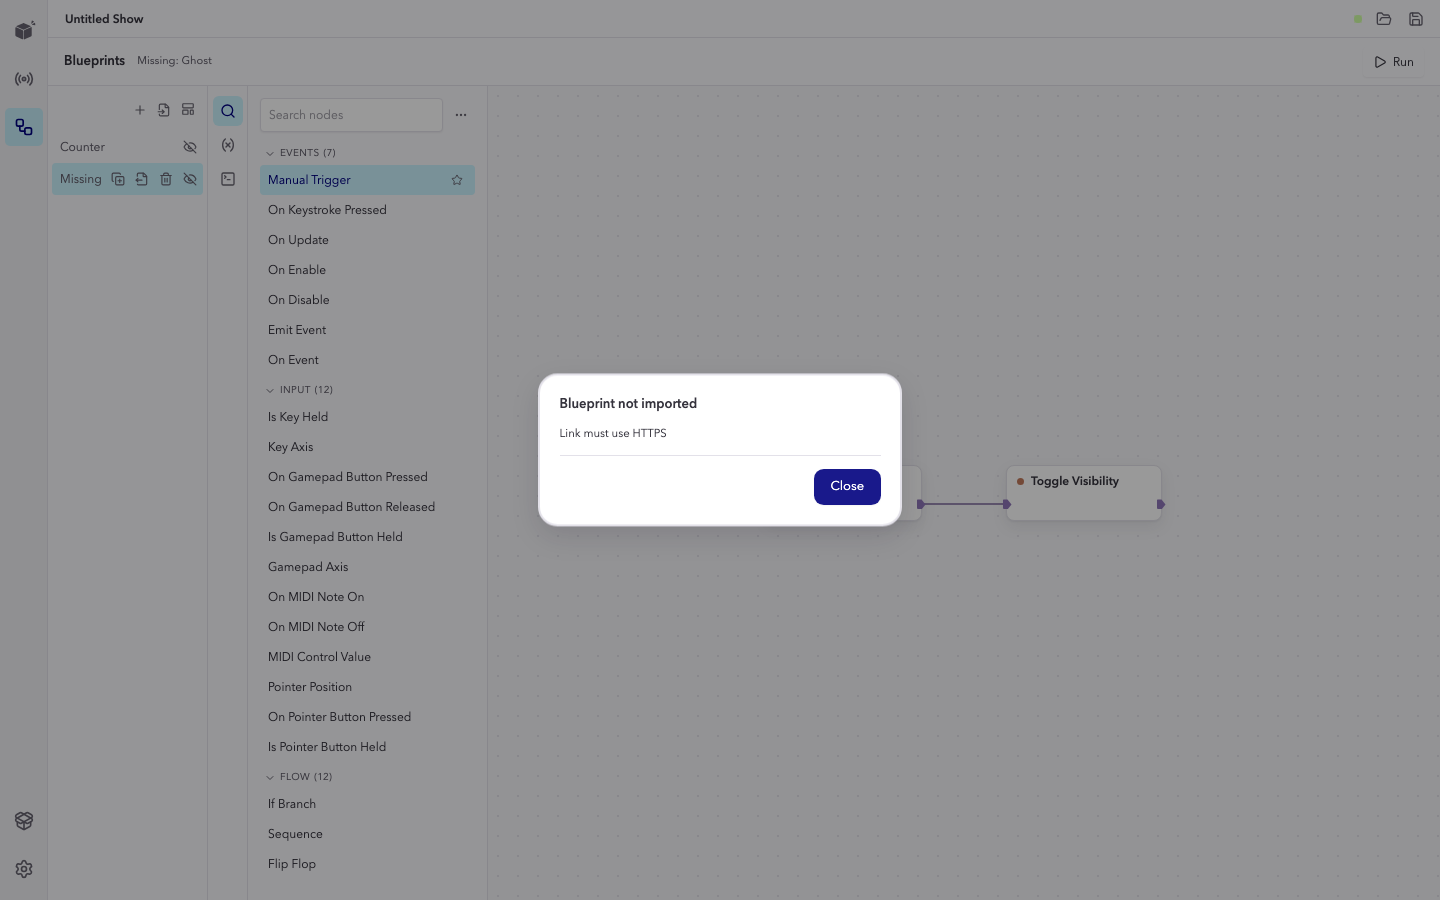
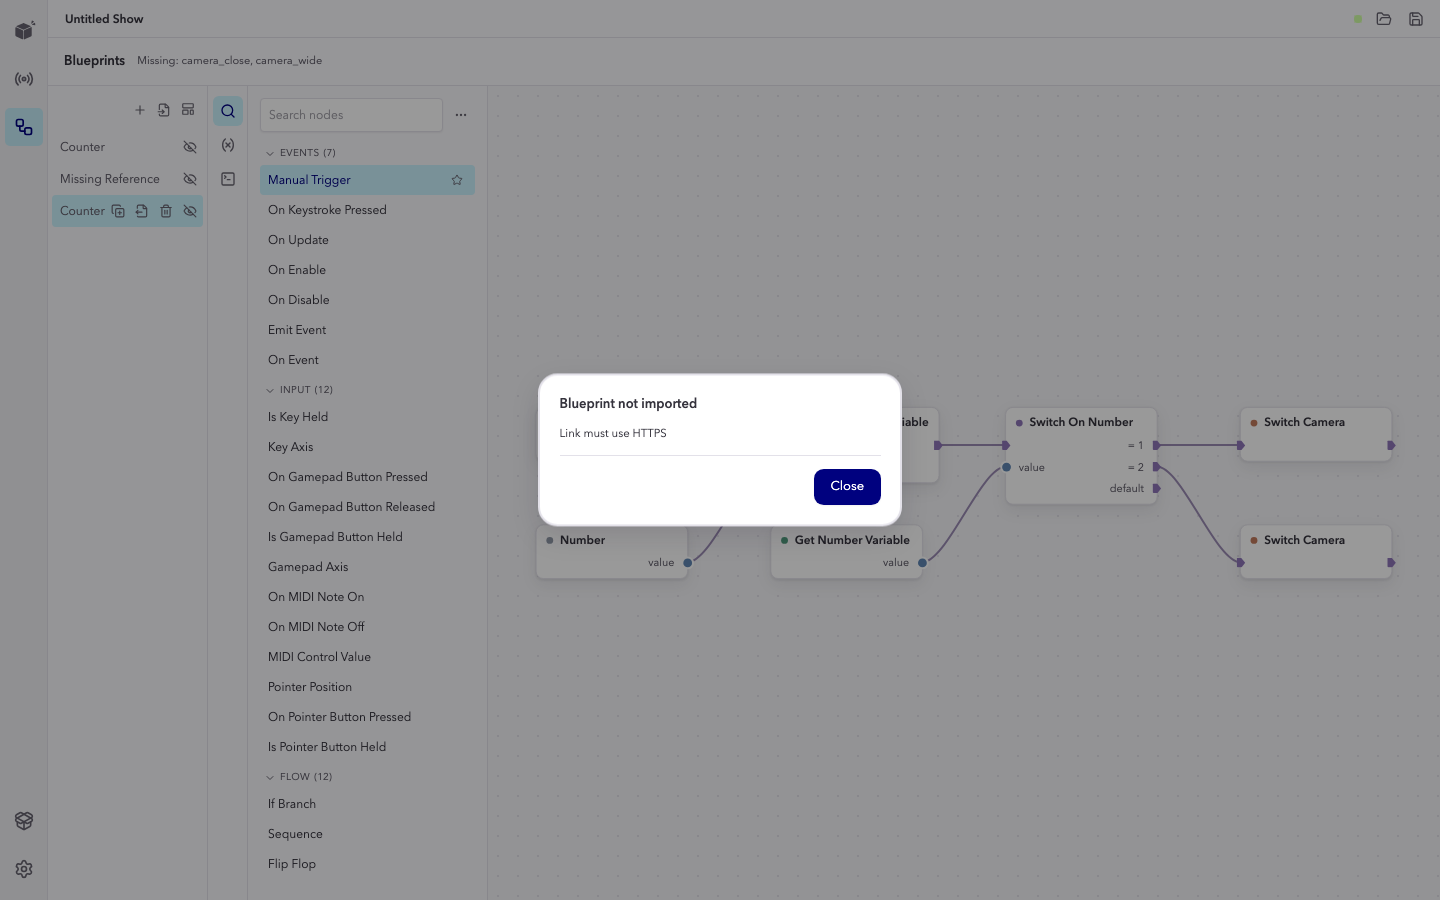
Take the linked Blueprint result from its own batch and keep the dialog open while it adds (B39)

diff --git a/apps/desktop/src/EditorApp.svelte b/apps/desktop/src/EditorApp.svelte
@@ -14,8 +14,8 @@
  import {createLiveTransform} from './editor/live-transform';
  import {createLiveEdit,type LiveEdit} from './editor/live-edit';
  import { createEditorPoll } from './editor-poll';
- import { createBlueprintSync, issueText, type BlueprintSync } from './blueprints/blueprint-sync';
- import { linkSummary, type LinkDownload, type LinkImportState } from './blueprints/link-import';
+ import { createBlueprintSync, type BlueprintSync } from './blueprints/blueprint-sync';
+ import { addLinkedGraph, linkSummary, type LinkDownload, type LinkImportState } from './blueprints/link-import';
 import { createEditorMemory } from './blueprints/editor-memory';
  import { createDebugFeed, planToasts, type DebugFeed } from './blueprints/debug-feed';
  import { compileBlueprint } from '@opensekai/session';
@@ -84,7 +84,7 @@ import { createEditorMemory } from './blueprints/editor-memory';
  // The avatar whose tracking guide replaces the Inspector.
  let guideFor=$state<string|null>(null);
  // A Blueprint from an opensekai:// link (B39 R9-R14). `app-link` only wakes the window; the window pulls the link when it is ready.
- let link=$state.raw<LinkImportState>({kind:'idle'}),linkWanted=$state(true),linkTaking=$state(false),linkAdding=false,linkToken=0;
+ let link=$state.raw<LinkImportState>({kind:'idle'}),linkWanted=$state(true),linkTaking=$state(false),linkAdding=$state(false),linkToken=0;
  let blueprintsLoaded=$state(false),graphCount=$state(0),linkArrival=$state.raw<{graphId:string;missing:string[]}|null>(null);
  const linkReady=$derived(canEdit&&available&&blueprintsLoaded&&!showBusy&&guideFor===null&&link.kind==='idle'&&!linkTaking);
  const linkContent=$derived(link.kind==='confirm'&&view.scene?linkSummary(link.text,link.host,view.scene,graphCount,()=>crypto.randomUUID()):null);
@@ -97,15 +97,16 @@ import { createEditorMemory } from './blueprints/editor-memory';
   catch(cause){if(token===linkToken)link={kind:'failed',message:showFailure(cause)};}
   finally{clearTimeout(timer);linkTaking=false;}
  }
- function closeLink(){if(link.kind==='idle')return;linkToken++;link={kind:'idle'};void invoke('finish_blueprint_link').catch(()=>{});}
+ // While the session answers an Import, the dialog cannot close (R11).
+ function closeLink(){if(link.kind==='idle'||linkAdding)return;linkToken++;link={kind:'idle'};void invoke('finish_blueprint_link').catch(()=>{});}
  async function importLink(){
-  if(!sync||linkAdding||!linkContent?.ok)return;
-  const {graph,missing}=linkContent.data;const applied=sync.edit([{kind:'createGraph',graph}]);
-  if(!applied.ok){link={kind:'failed',message:applied.error.message};return;}
+  if(!sync||linkAdding||!available||!linkContent?.ok)return;
+  const {graph,missing}=linkContent.data,token=linkToken;
   linkAdding=true;
-  try{await sync.idle();}finally{linkAdding=false;}
-  const issue=sync.issue();
-  if(issue){link={kind:'failed',message:issueText(issue)};return;}
+  let reply;try{reply=await addLinkedGraph(sync,graph);}finally{linkAdding=false;}
+  // The result of its own batch (R13); a newer link or a closed dialog keeps its state.
+  if(token!==linkToken)return;
+  if(!reply.ok){link={kind:'failed',message:reply.error.message};return;}
   closeLink();panel='blueprints';linkArrival={graphId:graph.id,missing};
  }
  let liveTransform:ReturnType<typeof createLiveTransform>|undefined,transformError=$state<string|null>(null),livePending=$state(false);
@@ -204,7 +205,7 @@ import { createEditorMemory } from './blueprints/editor-memory';
  }
  // Open Show, a template, and a recent show load through the same path (start screen R4, R5, R7).
  async function openShowFrom(load:()=>Promise<unknown|null>):Promise<boolean>{
-  if(!model||showBusy||view.pending||guideFor!==null||link.kind!=='idle')return false;
+  if(!model||showBusy||view.pending||guideFor!==null||link.kind!=='idle'||linkTaking)return false;
   showBusy=true;showError=null;
   try{
    const raw=await load();if(raw===null)return false;
@@ -296,5 +297,5 @@ import { createEditorMemory } from './blueprints/editor-memory';
   </div>
  </div>
 </main>
-{#if link.kind!=='idle'}<BlueprintLinkDialog state={link} summary={linkContent} onimport={()=>{void importLink();}} onclose={closeLink}/>{/if}
+{#if link.kind!=='idle'}<BlueprintLinkDialog state={link} summary={linkContent} busy={linkAdding} canImport={available} onimport={()=>{void importLink();}} onclose={closeLink}/>{/if}
 <ToastRegion/>

diff --git a/apps/desktop/src/blueprints/blueprint-sync.ts b/apps/desktop/src/blueprints/blueprint-sync.ts
@@ -9,9 +9,11 @@ export const issueText = (issue: SyncIssue): string =>
 export interface BlueprintSync {
  view(): BlueprintGraph[]; revision(): number; errors(): BlueprintStatus[]; issue(): SyncIssue;
  load(): Promise<void>; pull(): Promise<void>; reset(): Promise<void>; poll(): Promise<void>; edit(ops: BlueprintOp[]): Reply<BlueprintGraph[]>; idle(): Promise<void>;
+ // One batch with its own result (B39 R13): the confirmed revision, the rejection, or UNAVAILABLE after the unconfirmed batch is removed.
+ commit(ops: BlueprintOp[]): Promise<Reply<{ revision: number }>>;
  subscribe(fn: (next: BlueprintGraph[], previous: BlueprintGraph[]) => void): () => void;
 }
-interface Pending { batchId: Id; ops: BlueprintOp[]; sent: boolean; revision?: number }
+interface Pending { batchId: Id; ops: BlueprintOp[]; sent: boolean; revision?: number; error?: { code: ErrorCode; message: string }; unreached?: boolean }
 const isMove = (ops: BlueprintOp[]) => ops.length === 1 && ops[0]!.kind === 'moveNode';
 const sameMove = (a: BlueprintOp[], b: BlueprintOp[]) => isMove(a) && isMove(b) && a[0]!.kind === 'moveNode' && b[0]!.kind === 'moveNode' && a[0].graphId === b[0].graphId && a[0].nodeId === b[0].nodeId;
 
@@ -27,7 +29,7 @@ export function createBlueprintSync(api: Pick<AppApi, 'blueprintEdit' | 'bluepri
   pending = pending.filter(batch => {
    const r = applyBlueprintOps(next, batch.ops);
    if (r.ok) next = r.data;
-   else if (!batch.sent) issue = { kind: 'rejected', code: 'CONFLICT', message: r.error.message };
+   else if (!batch.sent) { issue = { kind: 'rejected', code: 'CONFLICT', message: r.error.message }; batch.error = { code: 'CONFLICT', message: r.error.message }; }
    return r.ok || batch.sent;
   });
   show(next);
@@ -77,13 +79,14 @@ export function createBlueprintSync(api: Pick<AppApi, 'blueprintEdit' | 'bluepri
     const reply = await api.blueprintEdit({ clientId, batchId: batch.batchId, ops: batch.ops });
     if (reply.ok) { batch.revision = reply.data.revision; if (issue?.kind === 'unavailable') issue = null; continue; }
     pending = pending.filter(p => p !== batch);
+    batch.error = { code: reply.error.code, message: reply.error.message };
     issue = { kind: 'rejected', code: reply.error.code, message: reply.error.message };
     await load();
    }
    return true;
   } catch {
    issue = { kind: 'unavailable' };
-   for (const p of pending) if (p.revision === undefined) p.sent = false;
+   for (const p of pending) if (p.revision === undefined) { p.sent = false; p.unreached = true; }
    return false;
   }
  };
@@ -116,6 +119,26 @@ export function createBlueprintSync(api: Pick<AppApi, 'blueprintEdit' | 'bluepri
    return result;
   },
   async idle() { while (sending || pulling || loading) await (sending ?? pulling ?? loading); },
+  async commit(ops) {
+   if (ops.length === 0 || ops.length > 64) return { ok: false, error: { code: 'INVALID_INPUT', message: 'One batch has 1 to 64 operations', ids: [] } };
+   const result = applyBlueprintOps(view, ops);
+   if (!result.ok) return result;
+   const batch: Pending = { batchId: crypto.randomUUID(), ops, sent: false };
+   pending.push(batch);
+   if (issue?.kind === 'rejected') issue = null;
+   show(result.data);
+   for (;;) {
+    await flush();
+    if (batch.revision !== undefined) return { ok: true, data: { revision: batch.revision } };
+    if (batch.error) return { ok: false, error: { ...batch.error, ids: [] } };
+    // Not confirmed: remove the batch, so a later poll cannot send it, and show the view without it.
+    if (batch.unreached || !pending.includes(batch)) {
+     pending = pending.filter(p => p !== batch);
+     rebuild();
+     return { ok: false, error: { code: 'UNAVAILABLE', message: 'Session unavailable', ids: [] } };
+    }
+   }
+  },
   subscribe(fn) { listeners.add(fn); return () => { listeners.delete(fn); }; },
  };
 }

diff --git a/apps/desktop/test/link-import.integration.test.ts b/apps/desktop/test/link-import.integration.test.ts
@@ -5,7 +5,7 @@ import { expect, it } from 'vitest';
 import { importBlueprint, makeSmokeScene, type AppApi } from '@opensekai/contracts';
 import { createSession, sessionApi } from '@opensekai/session';
 import { createBlueprintSync } from '../src/blueprints/blueprint-sync';
-import { linkSummary } from '../src/blueprints/link-import';
+import { addLinkedGraph, linkSummary } from '../src/blueprints/link-import';
 
 const load = (name: string) => readFileSync(new URL(`../../../fixtures/blueprints/${name}.json`, import.meta.url), 'utf8');
 
@@ -70,4 +70,39 @@ it('fails a link at 8 graphs and leaves the Blueprint revision and the graph lis
  const after = snapshot();
  expect(after.revision).toBe(before.revision);
  expect(after.blueprints.map(graph => graph.id)).toEqual(before.blueprints.map(graph => graph.id));
+});
+
+// A session that the Editor cannot reach for a time: each call throws while `down` is set, as the operator client does.
+async function flaky() {
+ const session = createSession(makeSmokeScene(), 'link');
+ const api = sessionApi(session);
+ const state = { editDown: false, inspectDown: false };
+ const sync = createBlueprintSync({
+  blueprintEdit: async batch => { if (state.editDown) throw new Error('closed'); return api.blueprintEdit(batch); },
+  blueprintInspect: async params => { if (state.inspectDown) throw new Error('closed'); return api.blueprintInspect(params); },
+ }, 'editor');
+ await sync.load();
+ const summary = linkSummary(load('counter'), 'blueprints.example', session.inspect(), sync.view().length, () => 'linked');
+ if (!summary.ok) throw new Error(summary.error.message);
+ return { session, sync, state, graph: summary.data.graph };
+}
+
+it('fails an Import that the session did not get, and no later poll sends it (R13)', async () => {
+ const { session, sync, state, graph } = await flaky();
+ const revision = session.inspectBlueprints().revision;
+ state.editDown = true; state.inspectDown = true;
+ expect(await addLinkedGraph(sync, graph)).toMatchObject({ ok: false, error: { code: 'UNAVAILABLE', message: 'Session unavailable' } });
+ expect(sync.view().map(item => item.id)).not.toContain('linked');
+ state.editDown = false; state.inspectDown = false;
+ await sync.poll(); await sync.idle(); await sync.poll(); await sync.idle();
+ expect(session.inspectBlueprints().revision).toBe(revision);
+ expect(sync.view().map(item => item.id)).not.toContain('linked');
+});
+
+it('reports an Import that the session confirmed as done when the pull after it fails (R13)', async () => {
+ const { session, sync, state, graph } = await flaky();
+ state.inspectDown = true;
+ const reply = await addLinkedGraph(sync, graph);
+ expect(reply).toMatchObject({ ok: true, data: { revision: session.inspectBlueprints().revision } });
+ expect(session.inspectBlueprints().kind === 'snapshot' && session.inspectBlueprints().blueprints.map(item => item.id)).toContain('linked');
 });

diff --git a/apps/desktop/src/components/BlueprintLinkDialog.svelte b/apps/desktop/src/components/BlueprintLinkDialog.svelte
@@ -5,7 +5,8 @@
  import { countLine, type LinkImportState, type LinkSummary } from '../blueprints/link-import';
 
  // The link confirmation (B39 R11). The parent mounts it only while a link is open.
- let { state: link, summary, onimport, onclose }: { state: LinkImportState; summary: Reply<LinkSummary> | null; onimport: () => void; onclose: () => void } = $props();
+ // `busy`: the session answers an Import; the dialog cannot close (R11). `canImport`: the session is available (R13).
+ let { state: link, summary, busy = false, canImport = true, onimport, onclose }: { state: LinkImportState; summary: Reply<LinkSummary> | null; busy?: boolean; canImport?: boolean; onimport: () => void; onclose: () => void } = $props();
  const failure = $derived(link.kind === 'failed' ? link.message : link.kind === 'confirm' && summary && !summary.ok ? summary.error.message : null);
  const ready = $derived(link.kind === 'confirm' && summary?.ok ? summary.data : null);
  const title = $derived(failure !== null ? 'Blueprint not imported' : ready ? 'Import blueprint?' : 'Import blueprint');
@@ -13,6 +14,8 @@
  // Focus starts on the first footer button: Cancel, or Close after a failure.
  $effect(() => { void (failure !== null); void tick().then(() => (body?.closest('dialog')?.querySelector('footer button') as HTMLButtonElement | null)?.focus()); });
 </script>
+
+<svelte:window onkeydowncapture={event => { if (busy && event.key === 'Escape') event.preventDefault(); }} />
 
 <Modal open={true} {title} closeOnBackdrop={false} class="blueprint-link-dialog" {onclose}>
  <div bind:this={body}>
@@ -22,6 +25,6 @@
  </div>
  {#snippet footer()}
   {#if failure !== null}<Button variant="primary" onclick={onclose}>Close</Button>
-  {:else}<Button variant="secondary" onclick={onclose}>Cancel</Button>{#if ready}<Button variant="primary" onclick={onimport}>Import</Button>{/if}{/if}
+  {:else}<Button variant="secondary" disabled={busy} onclick={onclose}>Cancel</Button>{#if ready}<Button variant="primary" disabled={!canImport} loading={busy} onclick={onimport}>Import</Button>{/if}{/if}
  {/snippet}
 </Modal>

diff --git a/apps/desktop/test/blueprint-sync.test.ts b/apps/desktop/test/blueprint-sync.test.ts
@@ -203,3 +203,12 @@ it('rejects a paste over the node limit without changing the graph', async () =>
  expect(a.edit(ops).ok).toBe(false);
  expect(a.view()).toEqual(before);
 });
+
+it('commit gives the rejection of its own batch and drops the graph from the view (B39 R13)', async () => {
+ const session = createSession(makeSmokeScene(), 's');
+ const sync = createBlueprintSync({ ...apiFor(session), blueprintEdit: async () => ({ ok: false, error: { code: 'INVALID_INPUT', message: 'Refused', ids: [] } }) }, 'c');
+ await sync.load();
+ const graph = { ...fixture.blueprints[0], id: 'refused' };
+ expect(await sync.commit([{ kind: 'createGraph', graph: graph as never }])).toMatchObject({ ok: false, error: { code: 'INVALID_INPUT', message: 'Refused' } });
+ expect(sync.view().map(item => item.id)).not.toContain('refused');
+});

diff --git a/apps/desktop/src/blueprints/link-import.ts b/apps/desktop/src/blueprints/link-import.ts
@@ -1,5 +1,6 @@
 import { importBlueprint, type BlueprintGraph, type Id, type Reply, type SceneView } from '@opensekai/contracts';
 import { MAX_GRAPHS } from './templates';
+import type { BlueprintSync } from './blueprint-sync';
 
 // The reply of the host command `take_blueprint_link` (B39).
 export interface LinkDownload { text: string; host: string }
@@ -20,3 +21,6 @@ export function linkSummary(text: string, host: string, scene: SceneView, graphC
 }
 
 export const countLine = (nodeCount: number, host: string) => `${nodeCount} ${nodeCount === 1 ? 'node' : 'nodes'} · ${host}`;
+
+// Adds the linked graph as one batch, with the result of that batch only (B39 R12, R13).
+export const addLinkedGraph = (sync: Pick<BlueprintSync, 'commit'>, graph: BlueprintGraph) => sync.commit([{ kind: 'createGraph', graph }]);
